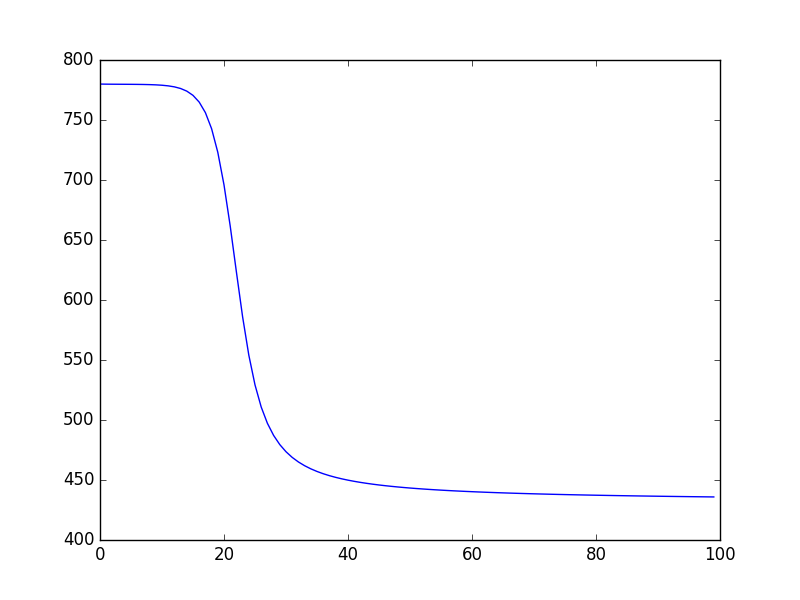
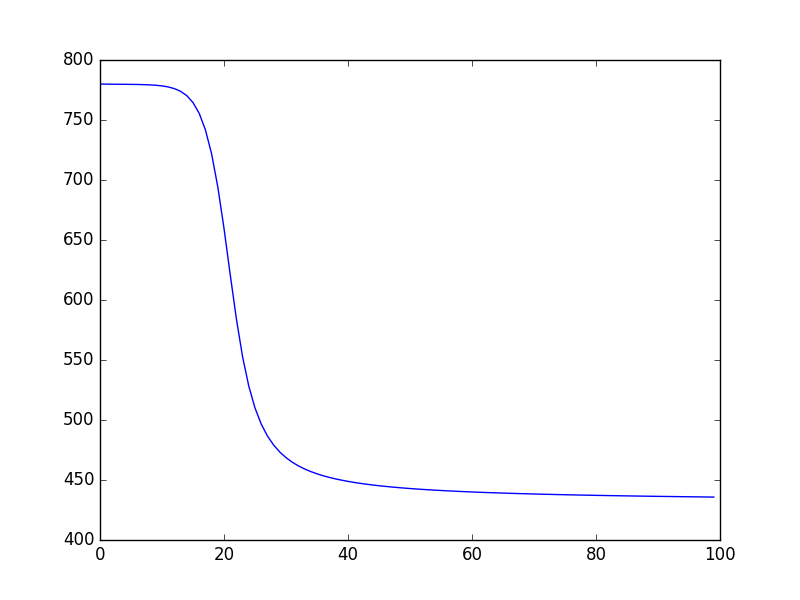
dodany plik do testow

diff --git a/net.py b/net.py
@@ -2,6 +2,7 @@ import numpy as np
 import re
 import sys
 import matplotlib.pyplot as plt
+import pickle
 np.set_printoptions(threshold='nan')
 
 
@@ -144,41 +145,17 @@ def get_train_data(size):
         			trainDataY[j][i] = 0    			
     return trainDataX,trainDataY
 
-def get_test_data(size):
-    with open("testData.txt", "r") as fileTestData:
-        testData = fileTestData.read()
-        testData = testData[1:-1]
-        testData = testData.split("\n")
-        testDataX = np.zeros((((size+1)*2),len(testData)))
-        testDataY = np.zeros((size+1,len(testData)))
-        for i in range(len(testData)):
-            testData[i] = testData[i].replace("[", "").replace("]","").replace("'","").strip()
-            testData[i] = re.sub(' +', ' ',testData[i])
-            testData[i] = testData[i].split(" ")
-            for j in range(len(testData[i])):
-                testData[i][j] = np.binary_repr(int(testData[i][j]),size+1)
-            tmpstring = str(testData[i][0]) + str(testData[i][1])
-            for j in range((size+1)*2):
-                if tmpstring[j] == '1':
-                    testDataX[j][i] = 1
-                else:
-                    testDataX[j][i] = 0
-            tmpstring = str(testData[i][2])
-            for j in range(size+1):
-                if tmpstring[j] == '1':
-                    testDataY[j][i] = 1
-                else:
-                    testDataY[j][i] = 0                
-    return testDataX,testDataY
-
+def save_obj(obj, name ):
+    with open(name + '.pkl', 'wb') as f:
+        pickle.dump(obj, f, pickle.HIGHEST_PROTOCOL)
 
 
 
 #main
 #main
-hidenLayers = [7]
+hidenLayers = [36]
 learning_rate = 0.2
-number_of_iterations = 100
+number_of_iterations = 500
 size = 8 #TO DO zrobic, zeby nie bylo 5 tylko rozmiar w bitach
 #dodajemy liczby 4 bit wiec wynik mze byc 5
 structure = [(size+1)*2] + hidenLayers + [size+1]
@@ -192,7 +169,6 @@ costs = np.zeros(number_of_iterations)
 #print ("W2 = ", par["W2"].shape)
 #print ("b2 = ", par["b2"].shape)
 trainDataX,trainDataY = get_train_data(size)
-testDataX,testDataY = get_test_data(size)
 #print trainDataX.shape
 #trainDataY = trainDataY[0:2,:]
 for i in range(number_of_iterations):
@@ -203,9 +179,9 @@ for i in range(number_of_iterations):
     pars[str(i+1)] = par
     costs[i] = cost
 # test
-print costs
+save_obj(par, "parameters")
 
-iteration = np.arange(0, number_of_iterations,1)
-plt.plot(iteration,costs)
-plt.savefig("test.png")
-plt.show
+#iteration = np.arange(0, number_of_iterations,1)
+#plt.plot(iteration,costs)
+#plt.savefig("test.png")
+#plt.show

diff --git a/testnet.py b/testnet.py
@@ -1,0 +1,78 @@
+import pickle
+import re
+import numpy as np
+
+def get_test_data(size):
+    with open("testData.txt", "r") as fileTestData:
+        testData = fileTestData.read()
+        testData = testData[1:-1]
+        testData = testData.split("\n")
+        testDataX = np.zeros((((size+1)*2),len(testData)))
+        testDataY = np.zeros((size+1,len(testData)))
+        for i in range(len(testData)):
+            testData[i] = testData[i].replace("[", "").replace("]","").replace("'","").strip()
+            testData[i] = re.sub(' +', ' ',testData[i])
+            testData[i] = testData[i].split(" ")
+            for j in range(len(testData[i])):
+                testData[i][j] = np.binary_repr(int(testData[i][j]),size+1)
+            tmpstring = str(testData[i][0]) + str(testData[i][1])
+            for j in range((size+1)*2):
+                if tmpstring[j] == '1':
+                    testDataX[j][i] = 1
+                else:
+                    testDataX[j][i] = 0
+            tmpstring = str(testData[i][2])
+            for j in range(size+1):
+                if tmpstring[j] == '1':
+                    testDataY[j][i] = 1
+                else:
+                    testDataY[j][i] = 0                
+    return testDataX,testDataY
+
+
+def load_obj(name ):
+    with open( name + '.pkl', 'rb') as f:
+        return pickle.load(f)
+
+def sigmoid(Z):
+    return 1/(1 + np.exp(-1 * Z))
+
+
+def relu(Z):
+    return np.maximum(0,Z)
+
+def forward_propagation(A,W,b):
+    return np.dot(W,A) + b
+
+
+def linear_activation_forward(A_prev, W, b, activation):
+    if activation == "sigmoid":
+        Z = forward_propagation(A_prev,W,b)
+        A = sigmoid(Z)
+    elif activation == "relu":
+        Z = forward_propagation(A_prev,W,b)
+        A = relu(Z)
+    return A
+
+def L_model_forward(X, parameters):
+    A = X
+    L = len(parameters) // 2                    
+    for l in range(1, L):
+        A_prev = A 
+        A = linear_activation_forward(A_prev, parameters["W"+str(l)], parameters["b"+str(l)],activation = "relu")
+    A_prev = A
+    AL = linear_activation_forward(A_prev, parameters["W"+str(int(len(parameters)/2))], parameters["b"+str(int(len(parameters)/2))],activation = "sigmoid")      
+    return AL
+
+
+#main
+par = load_obj("parameters")
+testDataX,testDataY = get_test_data(8)
+AL = L_model_forward(testDataX,par)
+print testDataY
+print AL
+AL = np.around(AL) 
+AL = np.absolute(AL - testDataY)
+print AL
+print np.sum(AL)
+
